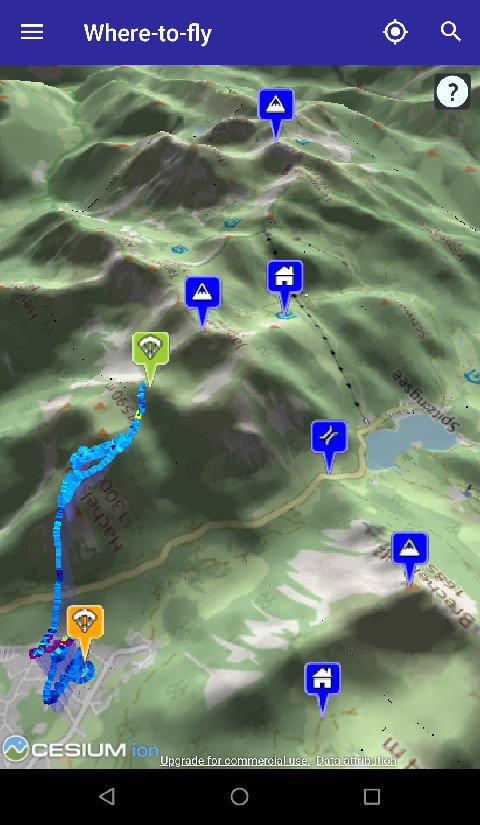
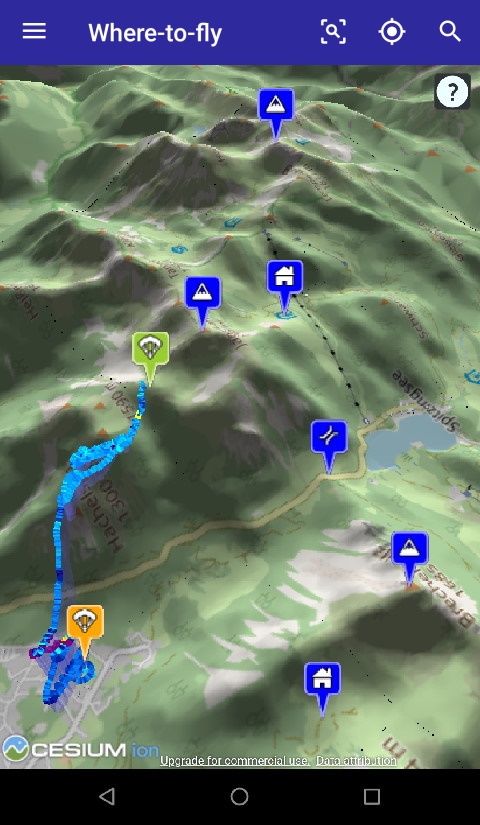
updated manual

diff --git a/src/App/Resources/Assets/info/manual.md b/src/App/Resources/Assets/info/manual.md
@@ -1,4 +1,4 @@
-# Manual
+# Manual
 
 Welcome to the manual page for the Where-to-fly app!
 
@@ -78,6 +78,10 @@ tapping on a layer object, details for the object are shown:
 ![Layer object](images/layer-object.png)
 
 ### Title bar icons
+
+The ![Find nearby POIs](images/magnify-scan.svg) button searches for new point
+of interests and adds it to the map temporarily. When zoomed far out, an area
+of maximum 2 degrees latitude and/or longitude are searched.
 
 The ![Locate](images/crosshairs-gps.svg) button lets you zoom to your current
 position, which is marked with a green pin. From the pin info, you can share
@@ -465,6 +469,8 @@ The Map tab has several settings:
   * Slope + contour lines: Displays contour lines and additionally colors the
     ground based on the slope.
   * NASA Black Marble 2017: Displays the night imagery from NASA.
+  * Waymarked Trails Hiking: Displays an overlay with marked hiking trails
+    from [waymarkedtrails.org](https://waymarkedtrails.org/).
 
 - Map Shading: Determines how the map is shaded, based on the sun's position:
   * Fixed at 10 am: The sunlight shines on early SE slopes.
